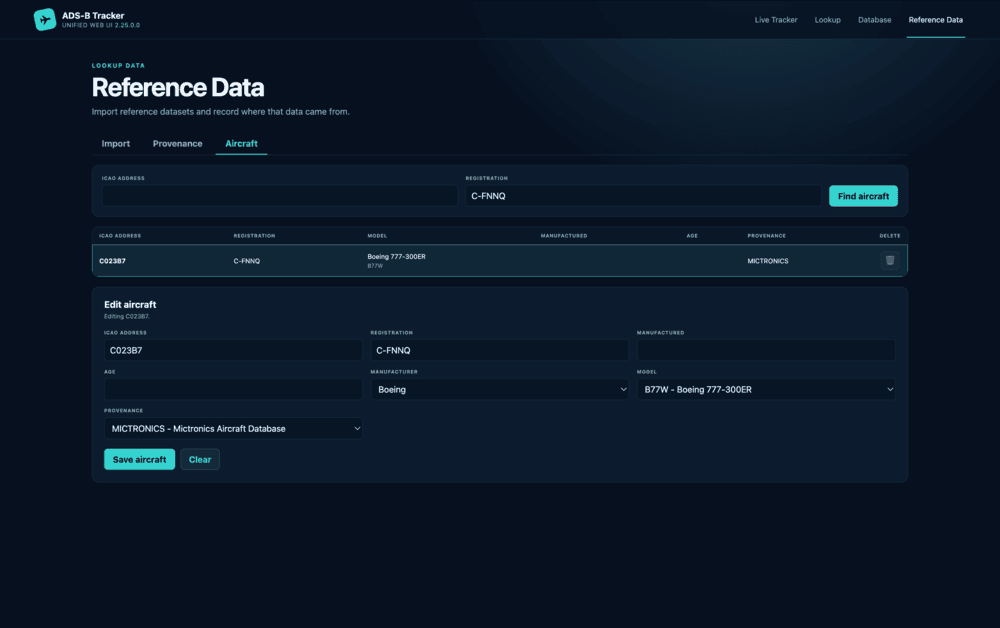
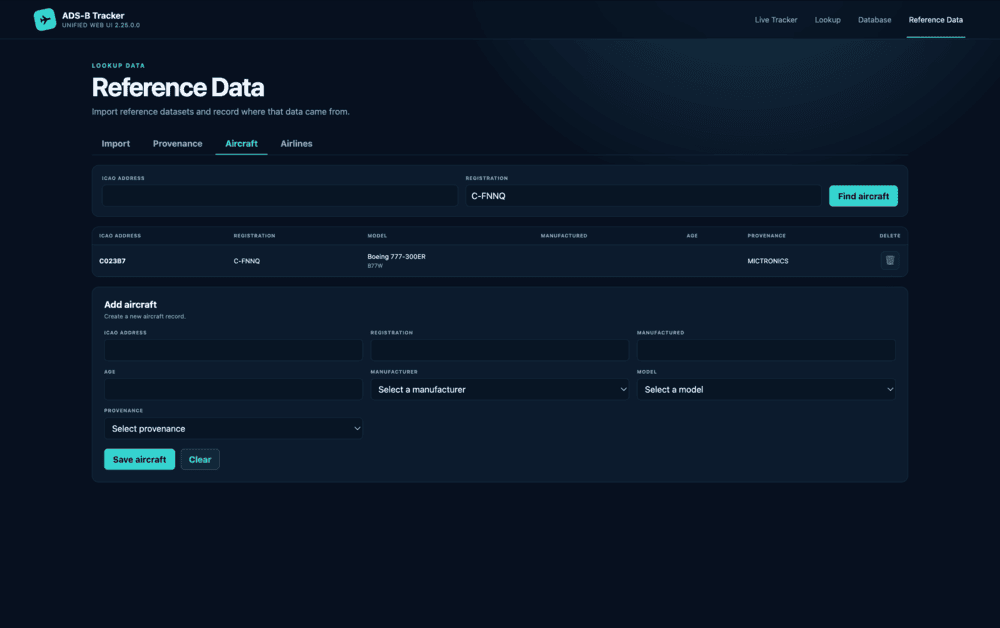
Added the airline reference data editor

diff --git a/src/BaseStationReader.TrackerHub/wwwroot/app.css b/src/BaseStationReader.TrackerHub/wwwroot/app.css
@@ -492,6 +492,7 @@ tbody tr.stale { background: rgba(255,113,134,.045); }
 .aircraft-filter label > span { display: block; margin-bottom: 7px; color: var(--muted); font-size: 9px; font-weight: 700; text-transform: uppercase; letter-spacing: .07em; }
 .aircraft-filter input, .provenance-fields select { width: 100%; height: 40px; padding: 8px 10px; color: var(--text); background: #081524; border: 1px solid var(--line); border-radius: 7px; outline: none; font: inherit; line-height: normal; }
 .aircraft-filter input:focus, .provenance-fields select:focus { border-color: var(--cyan); box-shadow: 0 0 0 3px rgba(53,212,208,.12); }
+.airline-filter { grid-template-columns: 1fr 1fr 2fr auto; }
 .aircraft-table-wrap { max-height: 360px; }
 .editor-read-only { margin: 14px 0 0; color: #ffe4a3; font-size: 11px; }
 
@@ -533,6 +534,7 @@ tbody tr.stale { background: rgba(255,113,134,.045); }
     .import-upload .primary-button { grid-column: 1 / -1; }
     .provenance-fields { grid-template-columns: 1fr 1fr; }
     .aircraft-filter { grid-template-columns: 1fr 1fr; }
+    .airline-filter { grid-template-columns: 1fr 1fr; }
     .aircraft-filter .primary-button { grid-column: 1 / -1; }
 }
 
@@ -557,6 +559,7 @@ tbody tr.stale { background: rgba(255,113,134,.045); }
     .provenance-fields { grid-template-columns: 1fr; }
     .provenance-fields label.wide { grid-column: auto; }
     .aircraft-filter { grid-template-columns: 1fr; }
+    .airline-filter { grid-template-columns: 1fr; }
     .aircraft-filter .primary-button { grid-column: auto; }
     .plotly-path.scene { min-height: 540px; }
     .radar-tab-heading { align-items: stretch; flex-direction: column; }

diff --git a/src/BaseStationReader.TrackerHub/Services/AirlineReferenceService.cs b/src/BaseStationReader.TrackerHub/Services/AirlineReferenceService.cs
@@ -1,0 +1,52 @@
+#nullable enable
+
+using BaseStationReader.BusinessLogic.Database;
+using BaseStationReader.Data;
+using BaseStationReader.Entities.Api;
+using BaseStationReader.Interfaces.Logging;
+using Microsoft.EntityFrameworkCore;
+
+namespace BaseStationReader.TrackerHub.Services;
+
+public sealed class AirlineReferenceService(
+    IDbContextFactory<BaseStationReaderDbContext> contextFactory,
+    TrackingRuntime runtime,
+    ITrackerLogger logger) : IAirlineReferenceService
+{
+    public async Task<List<Airline>> FindAsync(
+        string? iata,
+        string? icao,
+        string? name,
+        CancellationToken cancellationToken = default)
+    {
+        var cleanIata = iata?.Trim().ToUpperInvariant() ?? "";
+        var cleanIcao = icao?.Trim().ToUpperInvariant() ?? "";
+        var cleanName = name?.Trim().ToUpperInvariant() ?? "";
+        await using var context = await contextFactory.CreateDbContextAsync(cancellationToken);
+        return await new DatabaseManagementFactory(logger, context, 0).AirlineManager.ListAsync(x =>
+            (cleanIata == "" || x.IATA.ToUpper().Contains(cleanIata)) &&
+            (cleanIcao == "" || x.ICAO.ToUpper().Contains(cleanIcao)) &&
+            (cleanName == "" || x.Name.ToUpper().Contains(cleanName)));
+    }
+
+    public async Task<Airline> SaveAsync(Airline airline, CancellationToken cancellationToken = default)
+    {
+        Airline? saved = null;
+        await runtime.ExecuteWhileIdleAsync(async () =>
+        {
+            await using var context = await contextFactory.CreateDbContextAsync(cancellationToken);
+            var manager = new DatabaseManagementFactory(logger, context, 0).AirlineManager;
+            saved = airline.Id == 0
+                ? await manager.AddAsync(airline.IATA, airline.ICAO, airline.Name, airline.ProvenanceId)
+                : await manager.UpdateAsync(airline.Id, airline.IATA, airline.ICAO, airline.Name, airline.ProvenanceId);
+        }, cancellationToken);
+        return saved!;
+    }
+
+    public Task DeleteAsync(int id, CancellationToken cancellationToken = default)
+        => runtime.ExecuteWhileIdleAsync(async () =>
+        {
+            await using var context = await contextFactory.CreateDbContextAsync(cancellationToken);
+            await new DatabaseManagementFactory(logger, context, 0).AirlineManager.DeleteAsync(id);
+        }, cancellationToken);
+}

diff --git a/src/BaseStationReader.BusinessLogic/Database/AirlineManager.cs b/src/BaseStationReader.BusinessLogic/Database/AirlineManager.cs
@@ -115,5 +115,38 @@ namespace BaseStationReader.BusinessLogic.Database
 
             return airline;
         }
+
+        public async Task<Airline> UpdateAsync(int id, string iata, string icao, string name, int provenanceId)
+        {
+            var airline = await _context.Airlines.FindAsync(id)
+                ?? throw new InvalidOperationException($"Airline record {id} does not exist.");
+            if (!await _context.Provenance.AnyAsync(x => x.Id == provenanceId))
+                throw new InvalidOperationException($"Provenance record {provenanceId} does not exist.");
+
+            var cleanIATA = StringCleaner.CleanIATA(iata);
+            var cleanICAO = StringCleaner.CleanICAO(icao);
+            var cleanName = StringCleaner.CleanName(name);
+            if (!string.IsNullOrEmpty(cleanIATA) &&
+                await _context.Airlines.AnyAsync(x => x.Id != id && x.IATA == cleanIATA))
+                throw new InvalidOperationException($"An airline with IATA code '{cleanIATA}' already exists.");
+            if (!string.IsNullOrEmpty(cleanICAO) &&
+                await _context.Airlines.AnyAsync(x => x.Id != id && x.ICAO == cleanICAO))
+                throw new InvalidOperationException($"An airline with ICAO code '{cleanICAO}' already exists.");
+
+            airline.IATA = cleanIATA;
+            airline.ICAO = cleanICAO;
+            airline.Name = cleanName;
+            airline.ProvenanceId = provenanceId;
+            await _context.SaveChangesAsync();
+            return await GetAsync(x => x.Id == id);
+        }
+
+        public async Task DeleteAsync(int id)
+        {
+            var airline = await _context.Airlines.FindAsync(id)
+                ?? throw new InvalidOperationException($"Airline record {id} does not exist.");
+            _context.Airlines.Remove(airline);
+            await _context.SaveChangesAsync();
+        }
     }
 }

diff --git a/src/BaseStationReader.Tests/Database/AirlineManagerTest.cs b/src/BaseStationReader.Tests/Database/AirlineManagerTest.cs
@@ -106,5 +106,25 @@ namespace BaseStationReader.Tests.Database
             await Assert.ThrowsExactlyAsync<InvalidOperationException>(() =>
                 _manager.AddAsync("XX", "XXX", "Missing provenance", 999));
         }
+
+        [TestMethod]
+        public async Task UpdateTestAsync()
+        {
+            var airline = await _manager.GetAsync(a => a.ICAO == ICAO);
+            var updated = await _manager.UpdateAsync(
+                airline.Id, "VS", "VIR", "Virgin Atlantic", airline.ProvenanceId);
+
+            Assert.AreEqual("VS", updated.IATA);
+            Assert.AreEqual("VIR", updated.ICAO);
+            Assert.AreEqual("Virgin Atlantic", updated.Name);
+        }
+
+        [TestMethod]
+        public async Task DeleteTestAsync()
+        {
+            var airline = await _manager.GetAsync(a => a.ICAO == ICAO);
+            await _manager.DeleteAsync(airline.Id);
+            Assert.IsEmpty(await _manager.ListAsync(x => true));
+        }
     }
 }

diff --git a/src/BaseStationReader.TrackerHub/Program.cs b/src/BaseStationReader.TrackerHub/Program.cs
@@ -164,6 +164,7 @@ namespace BaseStationReader.TrackerHub
                 builder.Services.AddSingleton<IDataImportService, DataImportService>();
                 builder.Services.AddScoped<IProvenanceService, ProvenanceService>();
                 builder.Services.AddScoped<IAircraftReferenceService, AircraftReferenceService>();
+                builder.Services.AddScoped<IAirlineReferenceService, AirlineReferenceService>();
                 builder.Services.AddHttpClient<IMapboxStaticMapService, MapboxStaticMapService>(client =>
                     client.Timeout = TimeSpan.FromSeconds(30));
 

diff --git a/src/BaseStationReader.Interfaces/Database/IAirlineManager.cs b/src/BaseStationReader.Interfaces/Database/IAirlineManager.cs
@@ -6,6 +6,8 @@ namespace BaseStationReader.Interfaces.Database
     public interface IAirlineManager
     {
         Task<Airline> AddAsync(string iata, string icao, string name, int provenanceId = 0);
+        Task<Airline> UpdateAsync(int id, string iata, string icao, string name, int provenanceId);
+        Task DeleteAsync(int id);
         Task<Airline> GetAsync(string iata, string icao, string name);
         Task<Airline> GetAsync(Expression<Func<Airline, bool>> predicate);
         Task<List<Airline>> ListAsync(Expression<Func<Airline, bool>> predicate);

diff --git a/src/BaseStationReader.TrackerHub/Services/IAirlineReferenceService.cs b/src/BaseStationReader.TrackerHub/Services/IAirlineReferenceService.cs
@@ -1,0 +1,12 @@
+#nullable enable
+
+using BaseStationReader.Entities.Api;
+
+namespace BaseStationReader.TrackerHub.Services;
+
+public interface IAirlineReferenceService
+{
+    Task<List<Airline>> FindAsync(string? iata, string? icao, string? name, CancellationToken cancellationToken = default);
+    Task<Airline> SaveAsync(Airline airline, CancellationToken cancellationToken = default);
+    Task DeleteAsync(int id, CancellationToken cancellationToken = default);
+}

diff --git a/README.md b/README.md
@@ -163,8 +163,9 @@ The **Reference Data** area provides tools for maintaining the locally curated i
 - Import
 - Provenance
 - Aircraft
+- Airlines
 
-The **Aircraft** tab searches reference records by ICAO address or registration and supports manual addition, editing and confirmed deletion. Manufacturer selection filters the available models, and each aircraft is linked to the provenance record describing its source. Aircraft records remain searchable during live tracking, but cannot be added, changed or deleted until the session ends.
+The **Aircraft** and **Airlines** tabs allow search, editing, deletion and addition of reference data records. Each record remains linked to a provenance record describing its source. Reference data records remain searchable during live tracking, but cannot be added, changed or deleted until the session ends.
 
 This organisation reinforces the distinction between observed ADS-B data, transient contextual information and locally managed enrichment data.
 
